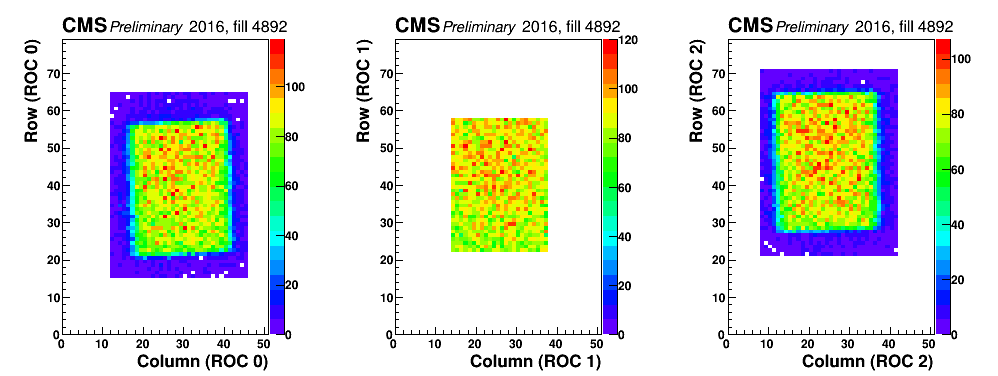
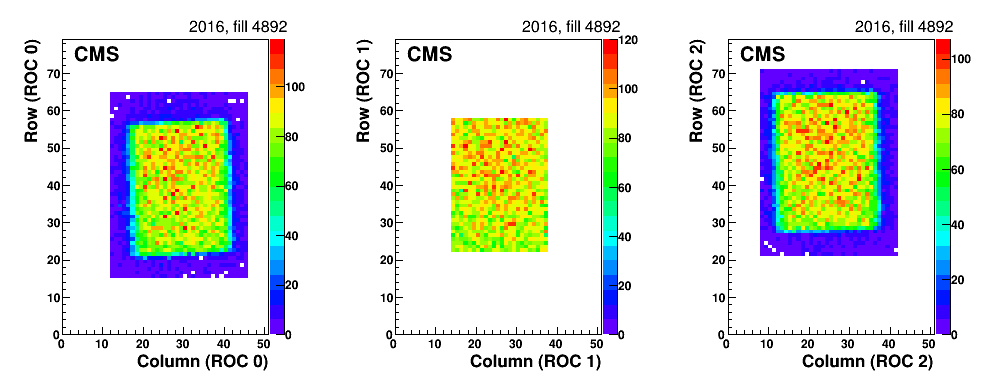
remove "Preliminary" and move CMS in frame for Fig. 6

diff --git a/Alignment/MakeTrackOccupancyPaper.C b/Alignment/MakeTrackOccupancyPaper.C
@@ -7,8 +7,8 @@
 void DrawHeader(void) {
   TText *t1 = new TText(0.17, 0.92, "CMS");
   t1->SetNDC(true);
-  t1->SetX(0.17);
-  t1->SetY(0.92);
+  t1->SetX(0.21);
+  t1->SetY(0.84);
   t1->SetTextAlign(11);
   t1->SetTextSize(0.075*0.9);
   t1->SetTextFont(61);
@@ -21,7 +21,7 @@ void DrawHeader(void) {
   t2->SetTextAlign(11);
   t2->SetTextSize(0.057*0.9);
   t2->SetTextFont(52);
-  t2->Draw();
+  //t2->Draw();
 
   TText *t3 = new TText(0.89, 0.92, "2016, fill 4892");
   t3->SetNDC(true);
